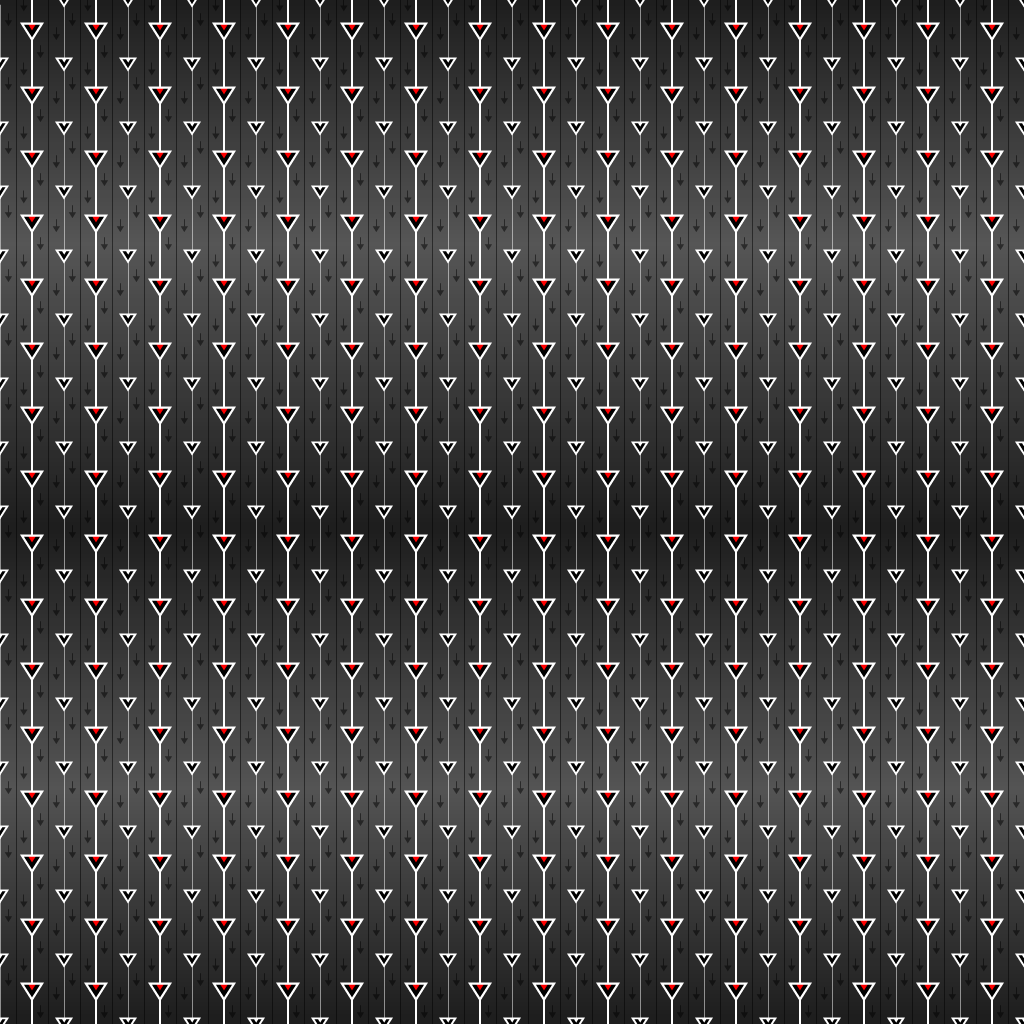
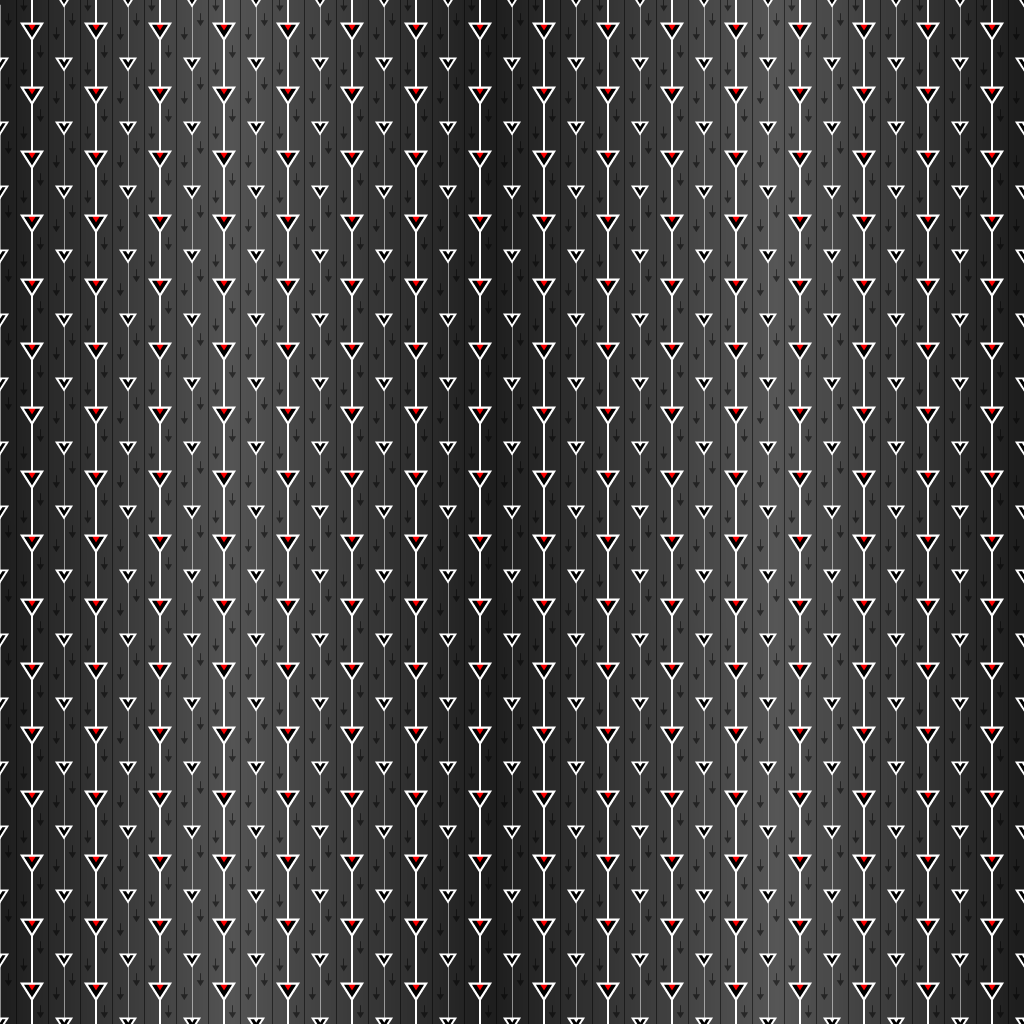
- op_align_world: Fixed negative directions for all 6 view cases - updated gravity checker map gradient to be vertical (better for further away views) - op_texture_reload_all: Refreshes viewports after reloading textures

diff --git a/addons/textools/op_island_align_world.py b/addons/textools/op_island_align_world.py
@@ -18,11 +18,19 @@ class op(bpy.types.Operator):
 	bl_label = "Align World"
 	bl_description = "Align selected UV islands to world / gravity directions"
 	bl_options = {'REGISTER', 'UNDO'}
-	
+
+	# is_global = bpy.props.BoolProperty(
+	# 	name = "Global Axis",
+	# 	description = "Global or local object axis alignment",
+	# 	default = False
+	# )
+
+	# def draw(self, context):
+	# 	layout = self.layout
+	# 	layout.prop(self, "is_global")
+
 	@classmethod
 	def poll(cls, context):
-
-
 		if not bpy.context.active_object:
 			return False
 
@@ -30,35 +38,28 @@ class op(bpy.types.Operator):
 		if bpy.context.active_object.mode != 'EDIT':
 			return False
 
-		#Only in UV editor mode
-		if bpy.context.area.type != 'IMAGE_EDITOR':
-			return False
-
 		#Requires UV map
 		if not bpy.context.object.data.uv_layers:
 			return False
 
-
 		if bpy.context.scene.tool_settings.use_uv_select_sync:
 			return False
 
-
-		# if bpy.context.scene.tool_settings.uv_select_mode != 'FACE':
-		#  	return False
-
-		# if bpy.context.scene.tool_settings.use_uv_select_sync:
-		# 	return False
+		#Only in UV editor mode
+		if bpy.context.area.type != 'IMAGE_EDITOR':
+			return False
 
 		return True
 
+
 	def execute(self, context):
-		main(context)
+		main(self)
 		return {'FINISHED'}
 
 
 
 def main(context):
-	print("--------------------------- Executing aling_world")
+	print("\n________________________\nis_global")
 
 	#Store selection
 	utilities_uv.selection_store()
@@ -70,14 +71,13 @@ def main(context):
 	if bpy.context.scene.tool_settings.uv_select_mode is not 'FACE' or 'ISLAND':
 		bpy.context.scene.tool_settings.uv_select_mode = 'FACE'
 
+	obj  = bpy.context.object
 	bm = bmesh.from_edit_mesh(bpy.context.active_object.data);
 	uvLayer = bm.loops.layers.uv.verify();
 	
 	islands = utilities_uv.getSelectionIslands()
 
-	print("Clusters: {}x".format(len(islands)))
-
-	obj  = bpy.context.object
+	
 
 	for faces in islands:
 		# Get average viewport normal of UV island
@@ -93,18 +93,18 @@ def main(context):
 		y = 1
 		z = 2
 		max_size = max(abs(avg_normal.x), abs(avg_normal.y), abs(avg_normal.z))
-		for i in range(1):
-			if(abs(avg_normal.x) == max_size):
-				print("x normal")
-				align_island(obj, uvLayer, faces, y, z, avg_normal.x > 0, False)
+	
+		if(abs(avg_normal.x) == max_size):
+			print("x normal")
+			align_island(obj, uvLayer, faces, y, z, avg_normal.x < 0, False)
 
-			elif(abs(avg_normal.y) == max_size):
-				print("y normal")
-				align_island(obj, uvLayer, faces, x, z, avg_normal.y > 0, False)
+		elif(abs(avg_normal.y) == max_size):
+			print("y normal")
+			align_island(obj, uvLayer, faces, x, z, avg_normal.y > 0, False)
 
-			elif(abs(avg_normal.z) == max_size):
-				print("z normal")
-				align_island(obj, uvLayer, faces, x, y, False, avg_normal.z > 0)
+		elif(abs(avg_normal.z) == max_size):
+			print("z normal")
+			align_island(obj, uvLayer, faces, x, y, False, avg_normal.z < 0)
 
 		print("align island: faces {}x n:{}, max:{}".format(len(faces), avg_normal, max_size))
 
@@ -174,8 +174,11 @@ def align_island(obj, uvLayer, faces, x=0, y=1, flip_x=False, flip_y=False):
 		))
 		
 
-		# if flip_x:
-		# 	delta_verts.x = edge.verts[0].co[x] - edge.verts[1].co[x]
+		if flip_x:
+			delta_verts.x = -edge.verts[1].co[x] + edge.verts[0].co[x]
+		if flip_y:
+			delta_verts.y = -edge.verts[1].co[y] + edge.verts[0].co[y]
+		
 		# 	delta_verts.y = edge.verts[0].co[y] - edge.verts[1].co[y]
 			
 
@@ -195,7 +198,7 @@ def align_island(obj, uvLayer, faces, x=0, y=1, flip_x=False, flip_y=False):
 		avg_angle+=a_delta
 
 
-	avg_angle/=len(edges) - math.pi/2
+	avg_angle/=len(edges) # - math.pi/2
 	print("Turn {:.1f}".format(avg_angle * 180/math.pi))
 	
 	bpy.ops.uv.select_all(action='DESELECT')

diff --git a/addons/textools/op_texture_reload_all.py b/addons/textools/op_texture_reload_all.py
@@ -43,6 +43,12 @@ def main(context):
 			count_reload+=1
 			img.reload()
 
+	# Refresh vieport texture
+	for window in bpy.context.window_manager.windows:
+		screen = window.screen
+		for area in screen.areas:
+			area.tag_redraw()
+
 	# Show popup on cleared & reloaded items
 	message = ""
 	if count_reload > 0:
@@ -54,5 +60,5 @@ def main(context):
 
 	if len(message) > 0:
 		bpy.ops.ui.textools_popup('INVOKE_DEFAULT', message=message)
-
+	
 	
